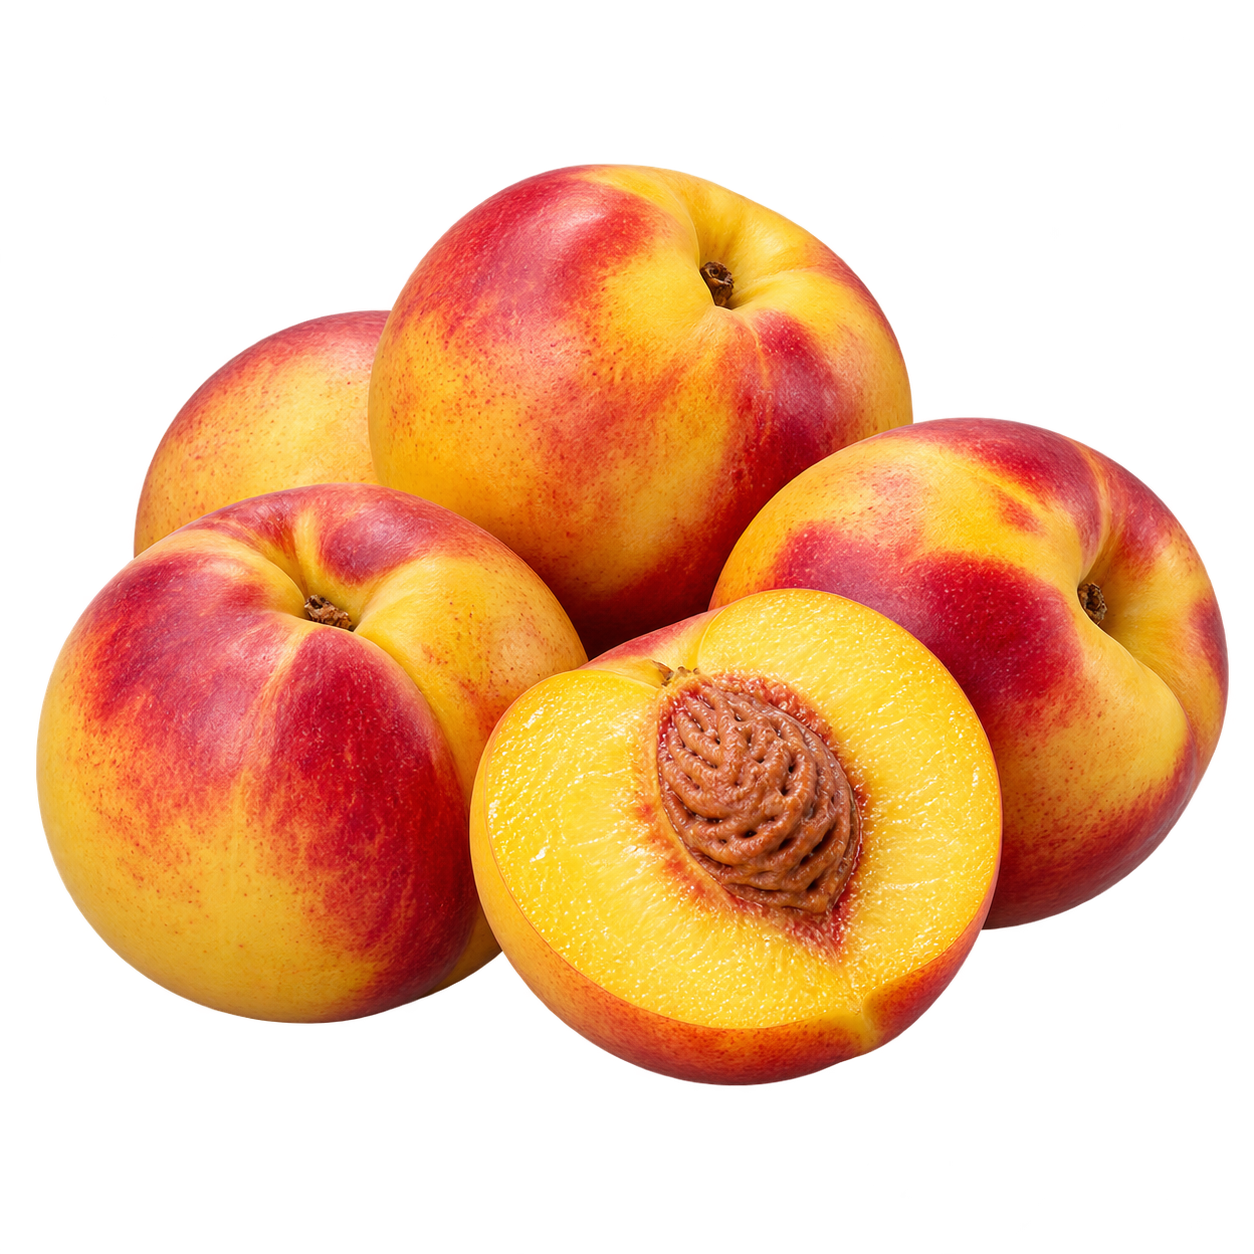
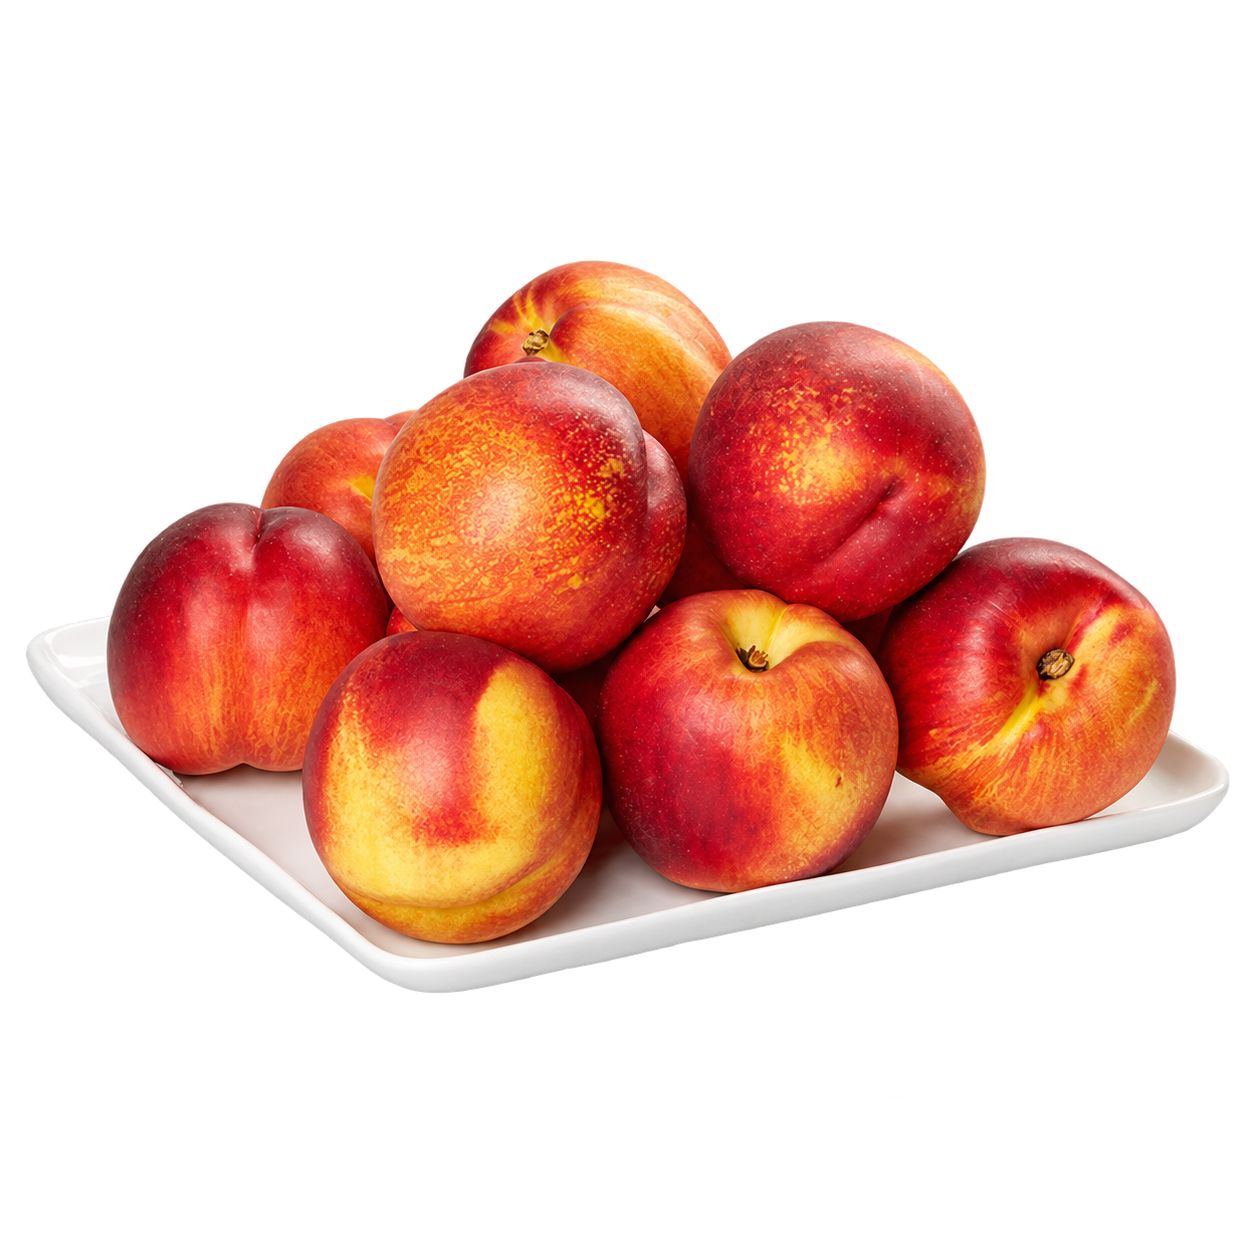
Use Costco yellow nectarine product photo

diff --git a/smart-shopping-photos.js b/smart-shopping-photos.js
@@ -13,12 +13,16 @@ window.SMART_LIST_PHOTOS = [
   {
     "name": "Yellow nectarin",
     "file": "yellow-nectarines-square.png",
-    "credit": "AI-generated with imagegen"
+    "source": "https://www.instacart.com/assets/domains/product-image/file/large_09255237-23ed-418c-a7d7-db76d381be8f.jpg",
+    "sourcePage": "https://sameday.costco.com/store/costco/products/124813176-yellow-nectarines-3-lbs",
+    "credit": "Costco Same-Day product photo; background removed with imagegen"
   },
   {
     "name": "Yellow nectarine",
     "file": "yellow-nectarines-square.png",
-    "credit": "AI-generated with imagegen"
+    "source": "https://www.instacart.com/assets/domains/product-image/file/large_09255237-23ed-418c-a7d7-db76d381be8f.jpg",
+    "sourcePage": "https://sameday.costco.com/store/costco/products/124813176-yellow-nectarines-3-lbs",
+    "credit": "Costco Same-Day product photo; background removed with imagegen"
   },
   {
     "name": "绿葡萄",
